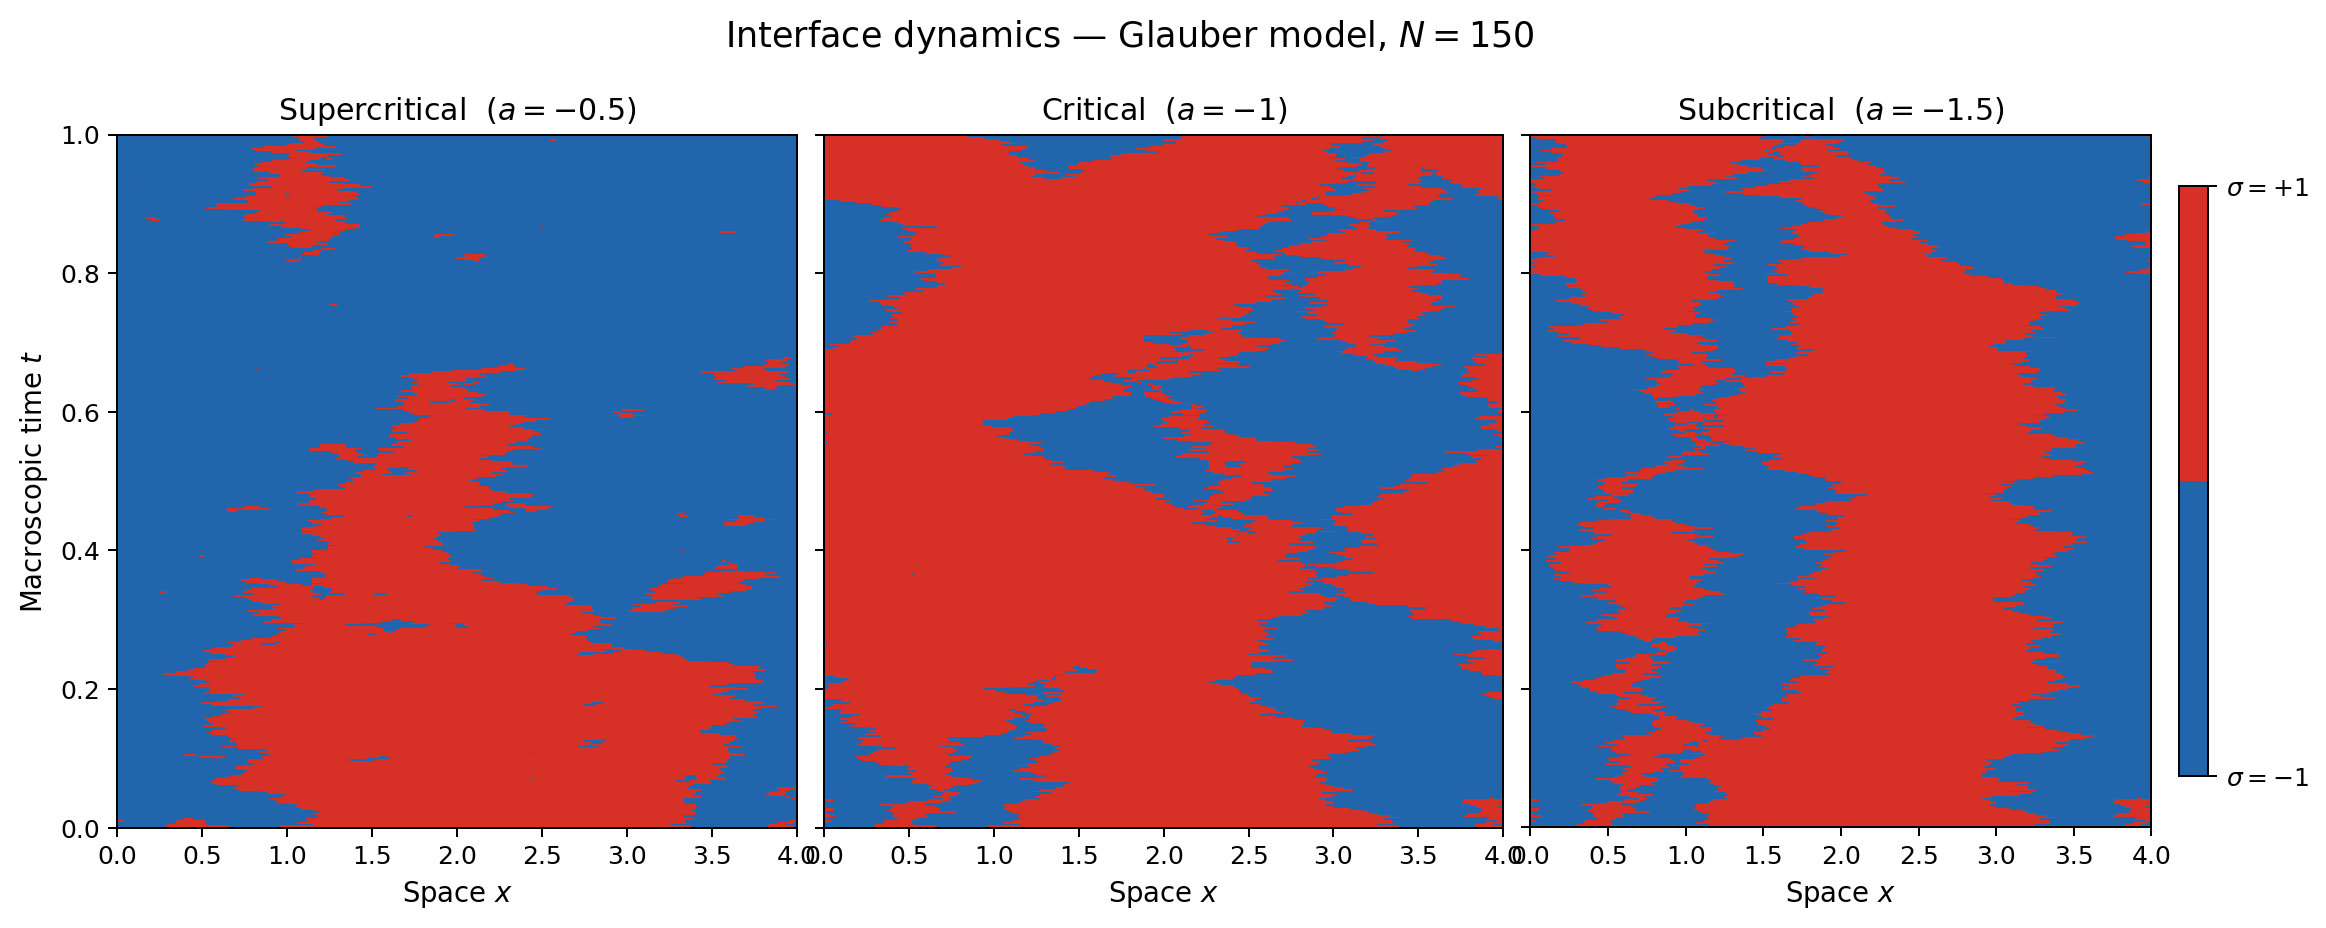
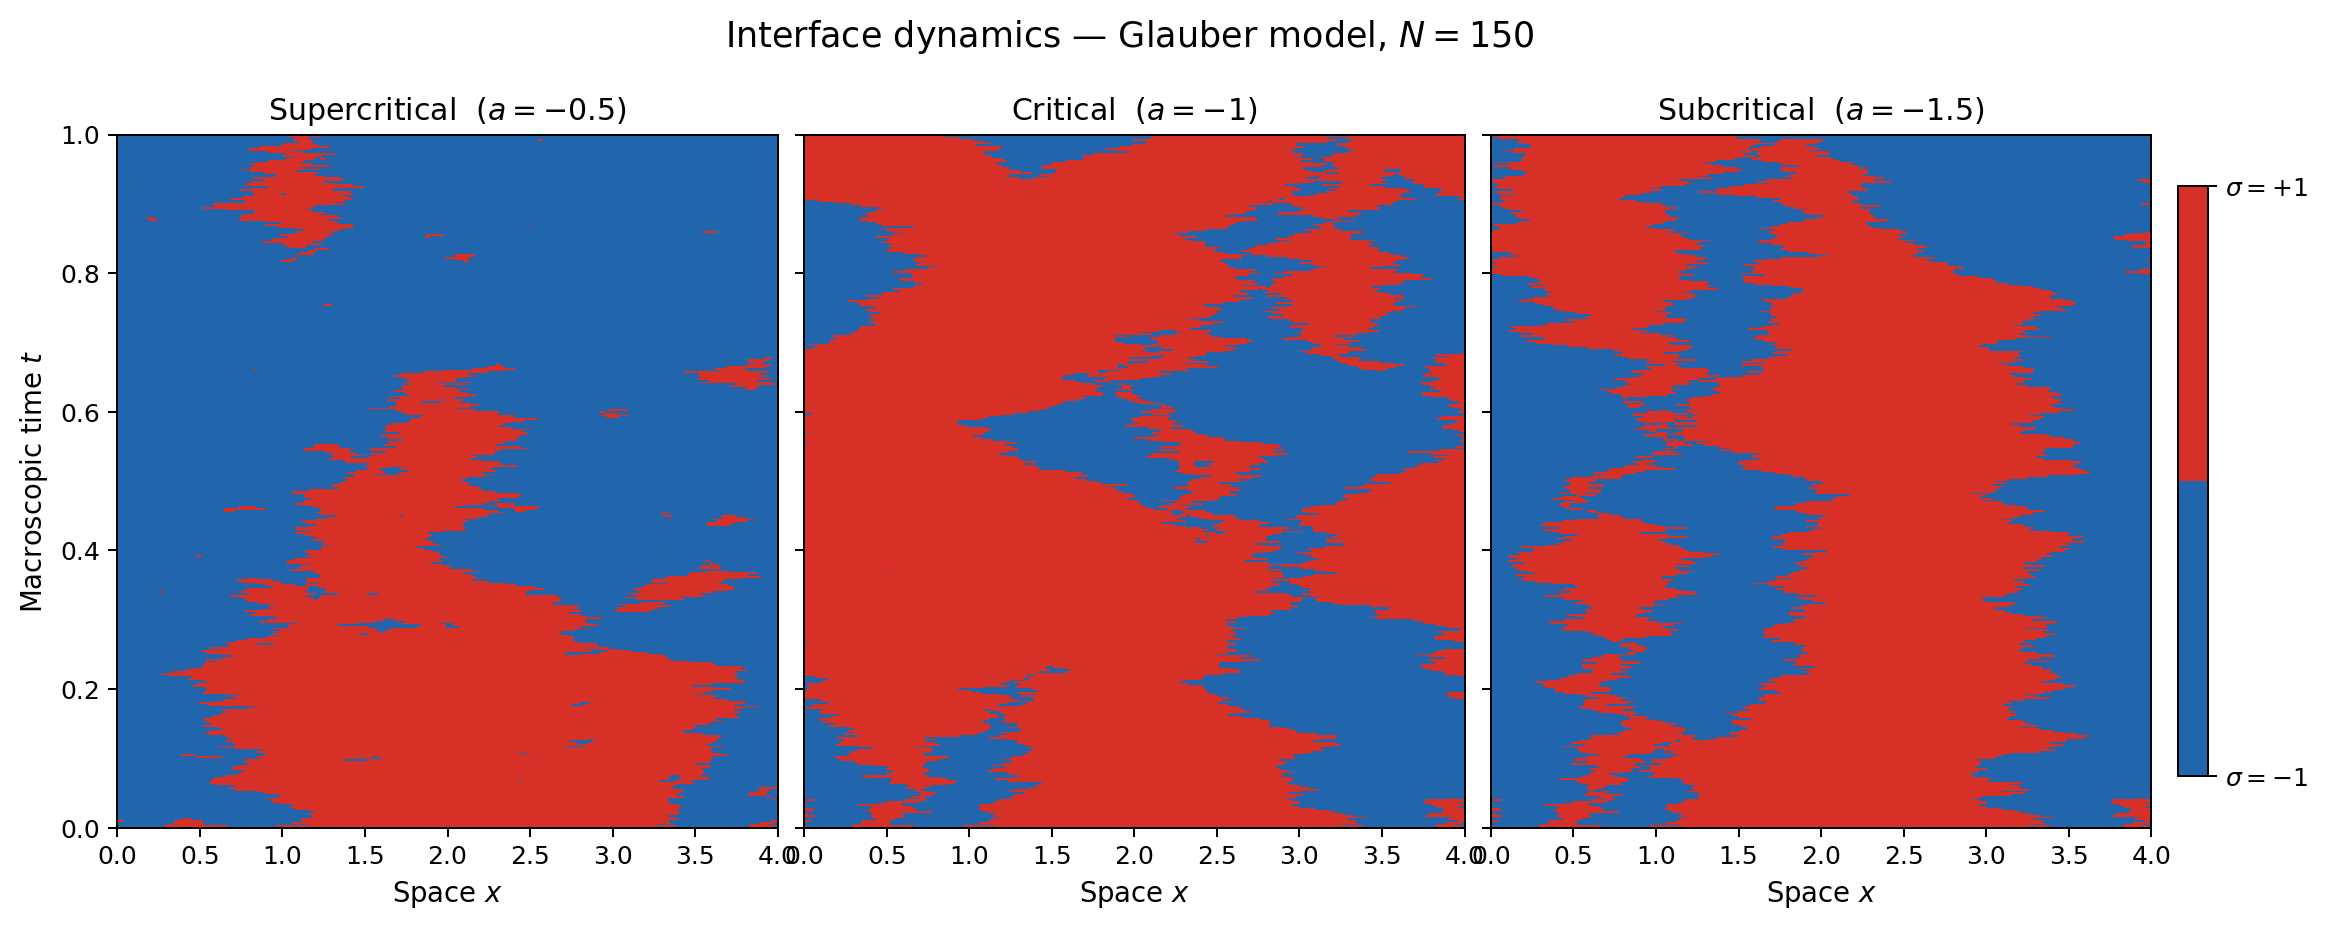
plot_dynamics.py: the three panels of the same width
The colorbar took its room from the last panel only: in the picture of the
three regimes the panels were 678, 677 and 619 px wide, for the same
length 4. Now it takes its room from the three panels: 659, 659 and 658 px.

Run the three regimes again with the commands of docs/regimes.md: with the
script of before they give the old picture byte for byte, so the data are
the same. Drawn docs/images/dynamics_comparison.png again with them.

Checked: in the new picture the 221673, 214173 and 212438 cells with the
neighbours of their colour have the colour of the trajectories. ruff
passes.

diff --git a/python_scripts/plot_dynamics.py b/python_scripts/plot_dynamics.py
@@ -73,9 +73,9 @@ for ax, (results_dir, title) in zip(axes, DIRS):
 
 axes[0].set_ylabel("Macroscopic time $t$", fontsize=11)
 
-# colorbar to the right of last axis only
-cbar = fig.colorbar(im, ax=axes[-1], orientation="vertical",
-                    fraction=0.046, pad=0.04, ticks=[-1, 1], shrink=0.85)
+# The colorbar takes its room from the three panels, so that they have the same width.
+cbar = fig.colorbar(im, ax=axes, orientation="vertical",
+                    fraction=0.015, pad=0.013, ticks=[-1, 1], shrink=0.85)
 cbar.ax.set_yticklabels([r"$\sigma = -1$", r"$\sigma = +1$"], fontsize=10)
 
 fig.savefig(out, dpi=180, bbox_inches="tight")
